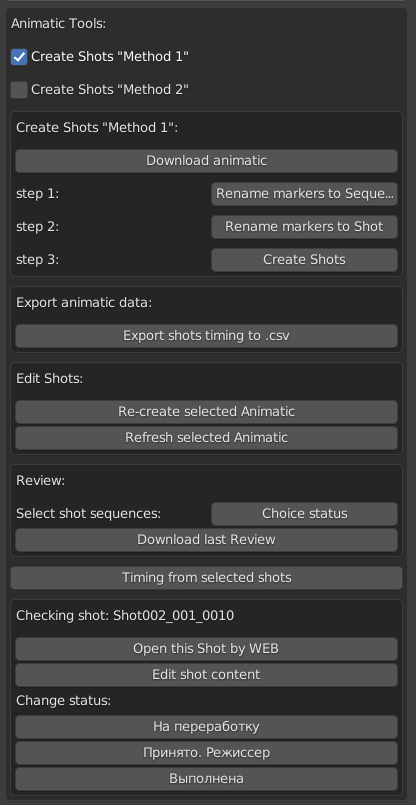
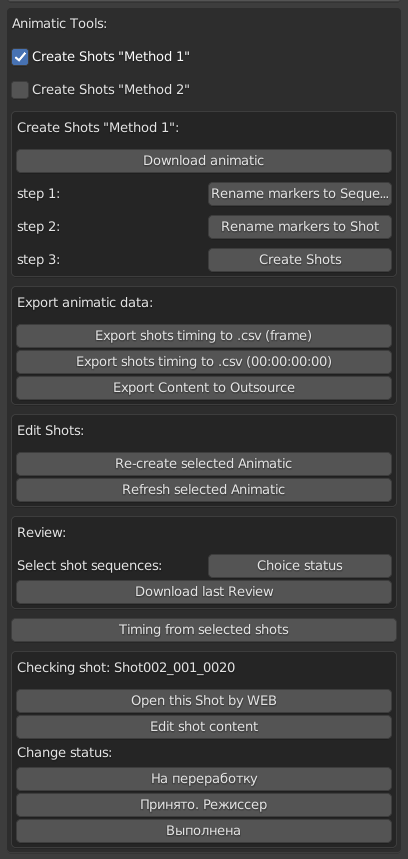
animatic tools - export

diff --git a/docs/source/manual/work_panel/animatic_tools.rst b/docs/source/manual/work_panel/animatic_tools.rst
@@ -105,17 +105,31 @@ Create Shots
 Export animatic data:
 ---------------------
 
-Экспорт различных данных в текстовые файлы.
+Экспорт различных данных.
 
-Export shots timing to .csv
-~~~~~~~~~~~~~~~~~~~~~~~~~~~
+.. _animatic_tools_export_shot_timing_frame:
 
-:guilabel:`Export shots timing to .csv` - запись в файл таблицы с данными начальных и конечных кадров шотов.
+Export shots timing to .csv (frame)
+~~~~~~~~~~~~~~~~~~~~~~~~~~~~~~~~~~~~
+
+:guilabel:`Export shots timing to .csv (frame)` - запись в файл таблицы с данными начальных и конечных кадров шотов.
 
 * Название файла ``[Episode_name]_shots_timing.csv``.
 * Колонки таблицы: ``name``, ``start``, ``end``.
 * Сохранение файла в папке ``meta`` директории задачи :ref:`files_task_folder`.
 
+.. _animatic_tools_export_shot_timing_time:
+
+Export shots timing to .csv (00:00:00:00)
+~~~~~~~~~~~~~~~~~~~~~~~~~~~~~~~~~~~~~~~~~~
+
+:guilabel:`Export shots timing to .csv (00:00:00:00)` - всё аналогично предыдущей функции, только записываются не фреймы а время до миллисекунд.
+
+
+Export Content to Outsource
+~~~~~~~~~~~~~~~~~~~~~~~~~~~~~
+
+Действие подробно описано тут :ref:`animation_to_outsource_content_to`, видео - `<https://disk.yandex.ru/i/lX2wtRnuOpbR2A>`_.
 
 .. _animatic_tools_edit_shots:
 

diff --git a/docs/source/manual/processes/managers_functions/animation_to_outsource.rst b/docs/source/manual/processes/managers_functions/animation_to_outsource.rst
@@ -3,6 +3,8 @@
 Лайаут, Анимация на аутсорсе (без плагина)
 ===========================================
 
+.. _animation_to_outsource_content_to:
+
 Выдача файлов на удалёнку
 --------------------------
 
